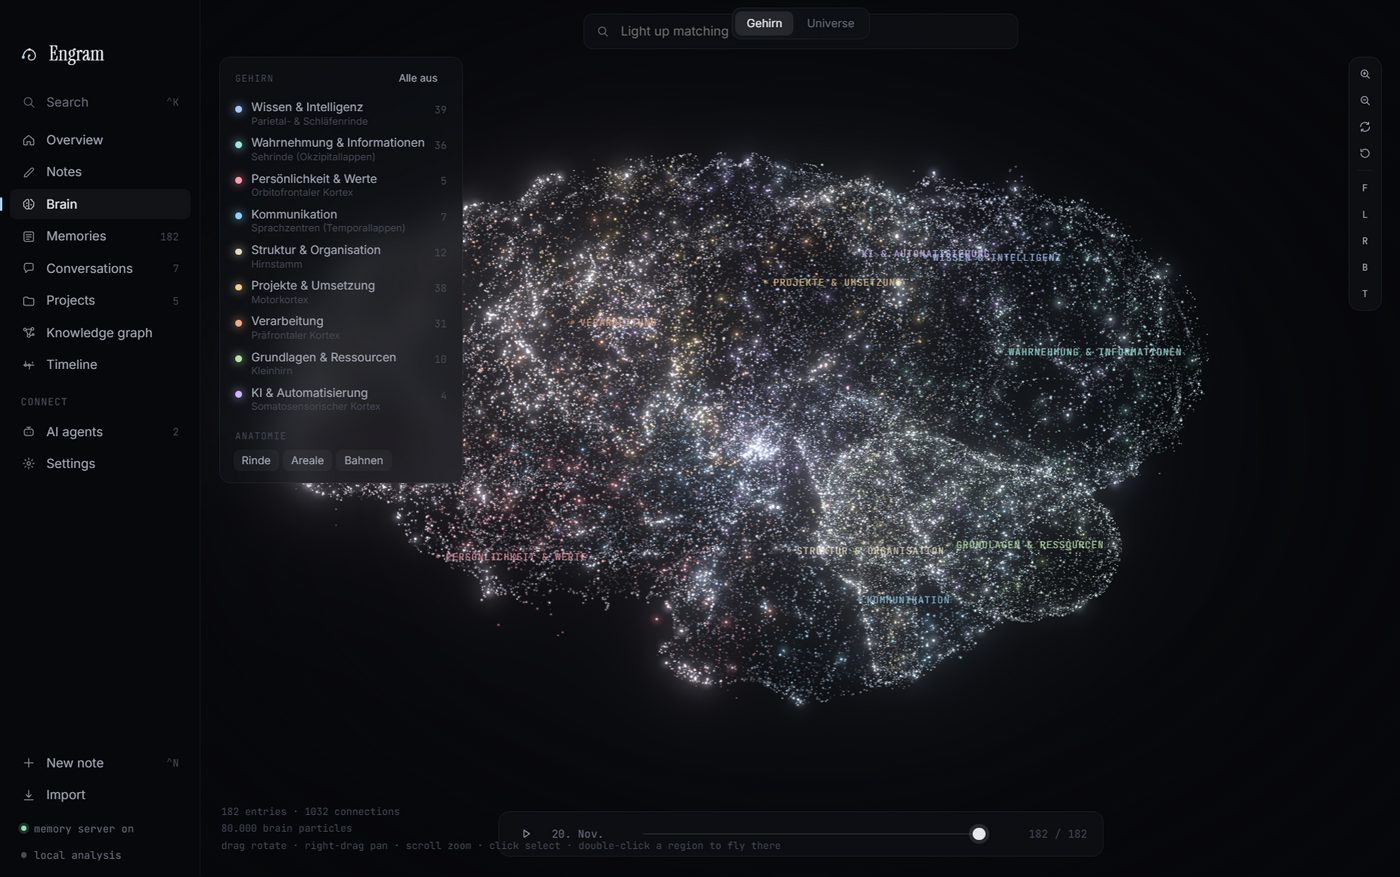
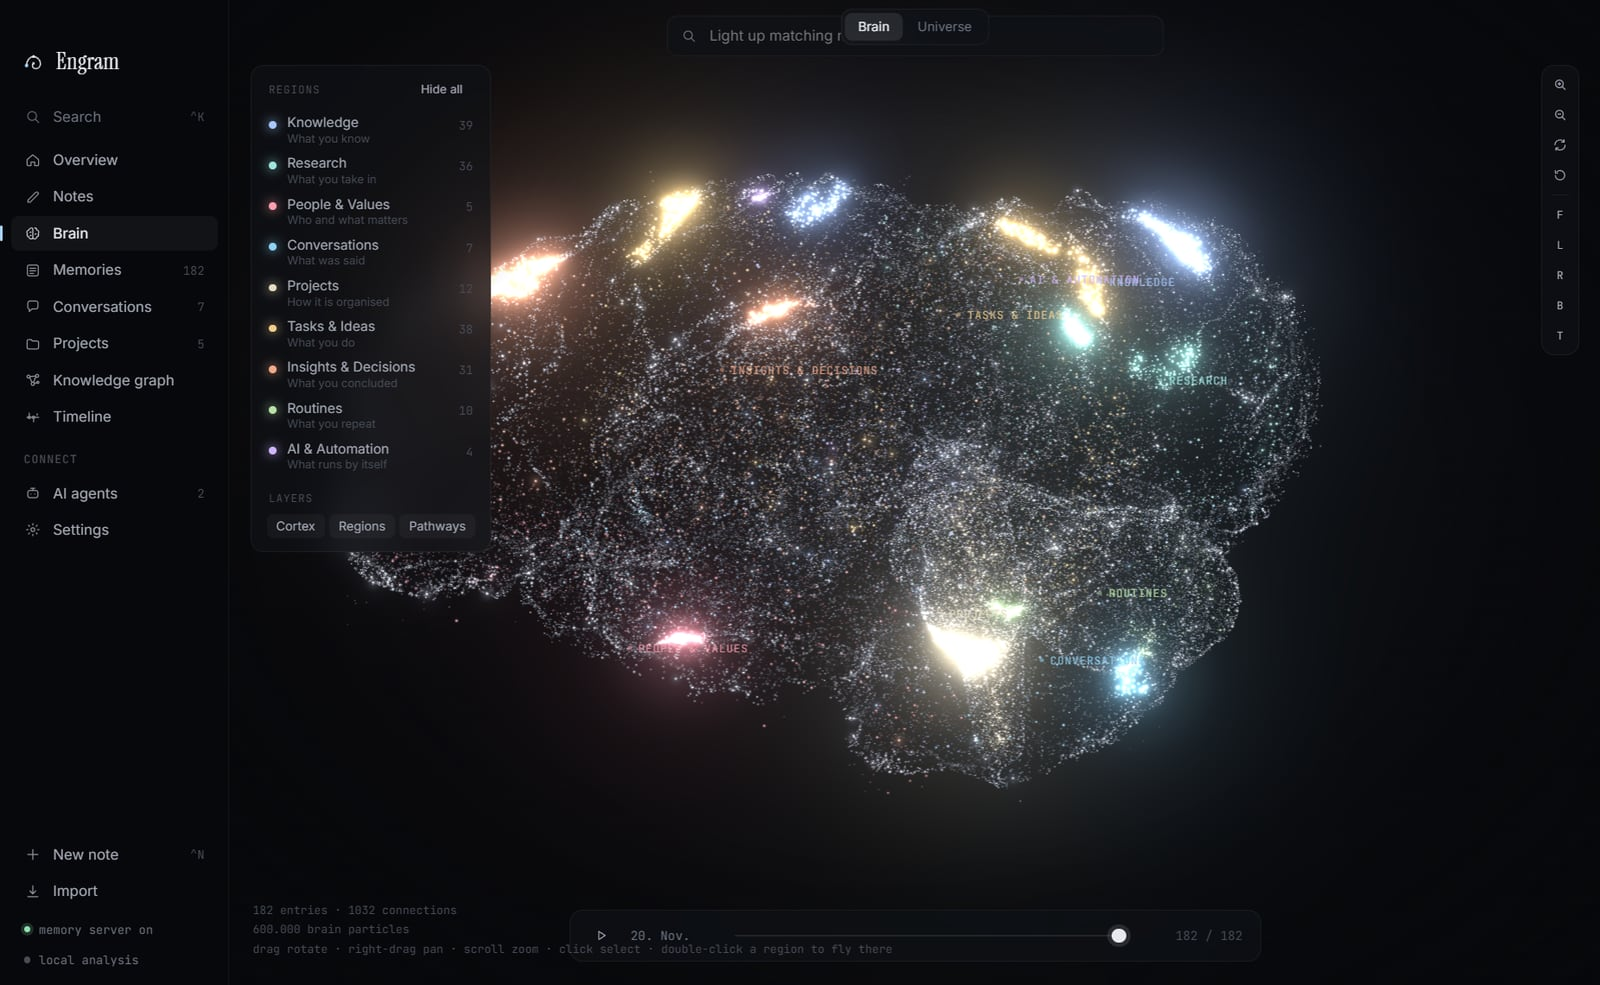
Update site for Engram 1.5.0; remove downloads
- New HD screenshots of the current app (demo data)
- Region names and world descriptions match 1.5.0
- Remove hero stats, version number and all download links
- Replace the download section with a development status note

diff --git a/index.html b/index.html
@@ -13,7 +13,7 @@
 <link rel="icon" href="assets/icon.png">
 <link rel="preload" href="assets/fonts/instrument-serif.woff2" as="font" type="font/woff2" crossorigin>
 <link rel="preload" href="assets/fonts/inter.woff2" as="font" type="font/woff2" crossorigin>
-<link rel="stylesheet" href="assets/style.css?v=3">
+<link rel="stylesheet" href="assets/style.css?v=4">
 </head>
 <body>
 
@@ -26,7 +26,7 @@
     <a href="#agents">Agents</a>
     <a href="#privacy">Privacy</a>
   </nav>
-  <a class="btn btn-ghost btn-s" href="#download">Download</a>
+  <a class="btn btn-ghost btn-s" href="#status">Status</a>
 </header>
 
 <main id="top">
@@ -37,21 +37,14 @@
   <div class="hero-vignette" aria-hidden="true"></div>
 
   <div class="hero-copy">
-    <p class="meta"><span class="pulse"></span>Version 1.4.1 · Windows · MIT</p>
+    <p class="meta"><span class="pulse"></span>In development · Windows</p>
     <h1>Your second brain,<br><em>made visible.</em></h1>
     <p class="lead">Engram keeps your notes, projects and AI conversations in a local database and draws them as a 3D brain. Every glowing point is a real entry you can open.</p>
     <div class="cta">
-      <a class="btn btn-primary" href="#download">Download for Windows</a>
-      <a class="btn btn-ghost" href="#worlds">See how it works</a>
+      <a class="btn btn-primary" href="#worlds">See how it works</a>
     </div>
   </div>
 
-  <dl class="hero-stats">
-    <div><dt>Particles, up to</dt><dd>140,000</dd></div>
-    <div><dt>Brain regions</dt><dd>9</dd></div>
-    <div><dt>MCP tools</dt><dd>25</dd></div>
-    <div><dt>Servers</dt><dd>0</dd></div>
-  </dl>
 </section>
 
 <!-- ============ SOURCES ============ -->
@@ -76,14 +69,14 @@
 
   <article class="world" data-reveal>
     <figure class="shot">
-      <img src="assets/shots/brain.jpg" alt="Engram's brain view: an anatomical particle brain with glowing regions" loading="lazy" width="1400" height="877">
+      <img src="assets/shots/brain.jpg" alt="Engram's brain view: an anatomical particle brain whose regions glow where entries live" loading="lazy" width="1600" height="985">
     </figure>
     <div class="world-copy">
       <p class="meta">The brain</p>
       <h3>An anatomical brain, built from your entries.</h3>
-      <p>Up to 140,000 particles sit on a signed-distance-field brain: two hemispheres, the Sylvian and central sulci, folded gyri, a cerebellum with fine folia, the brainstem and spinal cord. No lines, only light and shadow.</p>
+      <p>A particle brain with two hemispheres, folded gyri, a cerebellum, the brainstem and spinal cord. Empty cortex stays dim and grey. Each entry lights up a patch in its region's colour, and the patch grows with the entry: a project with its entries, a conversation with its messages.</p>
       <ul class="list">
-        <li>Each entry is placed in one of 9 regions automatically</li>
+        <li>Dense areas glow brightest, empty regions stay dark</li>
         <li>Click a point to open the entry</li>
         <li>Double-click a region to fly to it</li>
       </ul>
@@ -92,17 +85,17 @@
 
   <article class="world flip" data-reveal>
     <figure class="shot">
-      <img src="assets/shots/universe.jpg" alt="Engram's universe view with a black hole at the centre and nine galaxies" loading="lazy" width="1400" height="877">
+      <img src="assets/shots/universe.jpg" alt="Engram's universe view: a star field orbiting a black hole, one sector per region" loading="lazy" width="1600" height="985">
     </figure>
     <div class="world-copy">
       <p class="meta">The universe</p>
       <h3>A black hole at the centre of everything you know.</h3>
       <p>A Schwarzschild black hole is raymarched in real time. Light bends along null geodesics, producing the shadow, the photon ring and the lensed far side of the accretion disk.</p>
       <dl class="map">
-        <div><dt>Galaxies</dt><dd>9 knowledge areas</dd></div>
-        <div><dt>Solar systems</dt><dd>Projects</dd></div>
-        <div><dt>Planets</dt><dd>Topic clusters</dd></div>
         <div><dt>Stars</dt><dd>Single entries</dd></div>
+        <div><dt>Bright stars</dt><dd>Projects</dd></div>
+        <div><dt>Star clusters</dt><dd>A project's entries</dd></div>
+        <div><dt>Disk sectors</dt><dd>The 9 regions</dd></div>
       </dl>
       <p class="quiet">Imports arrive as comets. Analyses pulse out of the black hole. New links travel as sparks. Every event shown is a real one.</p>
     </div>
@@ -119,14 +112,14 @@
 
   <ol class="regions" data-reveal-group>
     <li style="--c:#9fc6ff"><span class="n">01</span><h4>Knowledge</h4><p>Parietal &amp; temporal cortex</p><small>Memories, notes, documents</small></li>
-    <li style="--c:#a7e3c4"><span class="n">02</span><h4>Perception</h4><p>Visual cortex</p><small>Research, sources, highlights</small></li>
-    <li style="--c:#f2b3cf"><span class="n">03</span><h4>Personality</h4><p>Orbitofrontal cortex</p><small>People, values, goals</small></li>
-    <li style="--c:#8fd8e8"><span class="n">04</span><h4>Communication</h4><p>Language centres</p><small>ChatGPT, Claude, Gemini, mail</small></li>
-    <li style="--c:#e9c48a"><span class="n">05</span><h4>Structure</h4><p>Brainstem</p><small>Projects, templates, overviews</small></li>
-    <li style="--c:#d7b4f0"><span class="n">06</span><h4>Action</h4><p>Motor cortex</p><small>Tasks, ideas, coding sessions</small></li>
-    <li style="--c:#f0a08c"><span class="n">07</span><h4>Reasoning</h4><p>Prefrontal cortex</p><small>AI analyses, decisions</small></li>
-    <li style="--c:#9eb0ff"><span class="n">08</span><h4>Foundations</h4><p>Cerebellum</p><small>Daily notes, routines, habits</small></li>
-    <li style="--c:#f3dd9a"><span class="n">09</span><h4>Automation</h4><p>Somatosensory cortex</p><small>Memories saved by agents</small></li>
+    <li style="--c:#a7e3c4"><span class="n">02</span><h4>Research</h4><p>Visual cortex</p><small>Sources, web pages, highlights</small></li>
+    <li style="--c:#f2b3cf"><span class="n">03</span><h4>People &amp; Values</h4><p>Orbitofrontal cortex</p><small>People, preferences, goals</small></li>
+    <li style="--c:#8fd8e8"><span class="n">04</span><h4>Conversations</h4><p>Language areas</p><small>ChatGPT, Claude, Gemini, mail</small></li>
+    <li style="--c:#e9c48a"><span class="n">05</span><h4>Projects</h4><p>Brainstem</p><small>Projects, templates, overviews</small></li>
+    <li style="--c:#d7b4f0"><span class="n">06</span><h4>Tasks &amp; Ideas</h4><p>Motor cortex</p><small>Tasks, ideas, coding sessions</small></li>
+    <li style="--c:#f0a08c"><span class="n">07</span><h4>Insights &amp; Decisions</h4><p>Prefrontal cortex</p><small>AI analyses, decisions</small></li>
+    <li style="--c:#9eb0ff"><span class="n">08</span><h4>Routines</h4><p>Cerebellum</p><small>Daily notes, routines, habits</small></li>
+    <li style="--c:#f3dd9a"><span class="n">09</span><h4>AI &amp; Automation</h4><p>Sensorimotor cortex</p><small>Memories saved by agents</small></li>
   </ol>
 </section>
 
@@ -144,7 +137,7 @@
         <h3>Your whole record on one screen.</h3>
         <p>A live world, recent entries, active projects and a command bar on <kbd>Ctrl</kbd> <kbd>K</kbd> for search and questions.</p>
       </div>
-      <img src="assets/shots/dashboard.jpg" alt="Engram overview dashboard" loading="lazy" width="1400" height="877">
+      <img src="assets/shots/overview.jpg" alt="Engram overview with the brain as background" loading="lazy" width="1600" height="985">
     </article>
 
     <article class="card">
@@ -153,7 +146,7 @@
         <h3>A full Markdown vault.</h3>
         <p>Live preview, <code>[[wikilinks]]</code>, backlinks, tabs, split view, templates and daily notes. An optional mirror folder keeps every note as a plain <code>.md</code> file.</p>
       </div>
-      <img src="assets/shots/notes.jpg" alt="Engram notes editor" loading="lazy" width="1400" height="877">
+      <img src="assets/shots/notes.jpg" alt="Engram notes editor with live preview" loading="lazy" width="1600" height="985">
     </article>
 
     <article class="card">
@@ -162,7 +155,7 @@
         <h3>Everything comes in verbatim.</h3>
         <p>ChatGPT, Claude, Gemini, Claude Code, Codex, Obsidian, Notion, Evernote and more. Importing the same file twice creates no duplicates.</p>
       </div>
-      <img src="assets/shots/conversations.jpg" alt="Engram conversations list" loading="lazy" width="1400" height="877">
+      <img src="assets/shots/conversations.jpg" alt="Engram conversations list" loading="lazy" width="1600" height="985">
     </article>
 
     <article class="card">
@@ -171,7 +164,7 @@
         <h3>Ask in plain language.</h3>
         <p>Full-text and vector search combined. Filters such as “decisions from October” or “ChatGPT, last 3 months” are read from your question. Answers cite the entries they came from.</p>
       </div>
-      <img src="assets/shots/search.jpg" alt="Engram search results in the command bar" loading="lazy" width="1400" height="877">
+      <img src="assets/shots/search.jpg" alt="Engram command bar with search results" loading="lazy" width="1600" height="985">
     </article>
 
     <article class="card">
@@ -180,7 +173,7 @@
         <h3>Watch ideas grow.</h3>
         <p>A knowledge graph of real links, a timeline with topic waves, and a version history for every change.</p>
       </div>
-      <img src="assets/shots/timeline.jpg" alt="Engram timeline view" loading="lazy" width="1400" height="877">
+      <img src="assets/shots/graph.jpg" alt="Engram knowledge graph" loading="lazy" width="1600" height="985">
     </article>
   </div>
 
@@ -213,7 +206,7 @@
   </div>
 
   <figure class="shot wide" data-reveal>
-    <img src="assets/shots/agents.jpg" alt="Engram's AI agents page with one-click install for each client" loading="lazy" width="1400" height="877">
+    <img src="assets/shots/agents.jpg" alt="Engram's AI agents page with one-click install for each client" loading="lazy" width="1600" height="985">
   </figure>
 </section>
 
@@ -230,22 +223,15 @@
   </div>
 </section>
 
-<!-- ============ DOWNLOAD ============ -->
-<section id="download" class="section download">
+<!-- ============ STATUS ============ -->
+<section id="status" class="section download">
   <div class="dl-glow" aria-hidden="true"></div>
   <div data-reveal>
-    <p class="meta">06 — Get started</p>
-    <h2>Start with what you <em>already have.</em></h2>
-    <p class="lead">Install per user, no admin rights needed. Your data stays in <code>%APPDATA%\Engram</code>, even if you uninstall.</p>
+    <p class="meta">06 — Status</p>
+    <h2>Still <em>taking shape.</em></h2>
+    <p class="lead">Engram is in active development and there is no public download yet. Follow the repository to see when the first release ships.</p>
     <div class="cta center">
-      <a class="btn btn-primary" data-release="Engram-Setup-1.4.1.exe" href="#">Download installer</a>
-      <a class="btn btn-ghost" data-release="Engram-1.4.1-portable.exe" href="#">Portable version</a>
-    </div>
-    <p class="note">The build is not code-signed. If Windows SmartScreen appears, choose <b>More info → Run anyway</b>.</p>
-    <div class="build">
-      <span class="meta">Build from source</span>
-      <pre><code>npm install
-npm start</code></pre>
+      <a class="btn btn-primary" data-repo href="#">Follow on GitHub</a>
     </div>
   </div>
 </section>
@@ -254,11 +240,11 @@ npm start</code></pre>
 
 <footer class="foot">
   <a class="brand" href="#top"><img src="assets/icon.png" alt="" width="20" height="20"><span>Engram</span></a>
-  <p class="meta">Local-first · MIT · Electron, Three.js &amp; SQLite</p>
-  <a class="meta link" data-repo href="#">Source on GitHub ↗</a>
+  <p class="meta">Local-first · Electron, Three.js &amp; SQLite</p>
+  <a class="meta link" data-repo href="#">GitHub ↗</a>
 </footer>
 
 
-<script src="assets/main.js?v=3"></script>
+<script src="assets/main.js?v=4"></script>
 </body>
 </html>

diff --git a/assets/main.js b/assets/main.js
@@ -1,16 +1,9 @@
 /* Engram site — particle brain, terminal, reveals, lightbox */
 (() => {
-  const REPO = 'engram'; // repo name under the user's account; used for release links
   const reduce = matchMedia('(prefers-reduced-motion: reduce)').matches;
 
-  /* ---------- release + repo links (derived from the Pages URL) ---------- */
-  const host = location.hostname;
-  const owner = host.endsWith('.github.io') ? host.split('.')[0] : null;
-  const repoUrl = owner ? `https://github.com/${owner}/${REPO}` : '#';
-  document.querySelectorAll('[data-repo]').forEach(a => (a.href = repoUrl));
-  document.querySelectorAll('[data-release]').forEach(a => {
-    a.href = owner ? `${repoUrl}/releases/latest/download/${a.dataset.release}` : `${repoUrl}`;
-  });
+  /* ---------- repo links ---------- */
+  document.querySelectorAll('[data-repo]').forEach(a => (a.href = 'https://github.com/Klardon972/engram'));
 
   /* ---------- nav background on scroll ---------- */
   const nav = document.getElementById('nav');

diff --git a/README.md b/README.md
@@ -8,24 +8,19 @@ Engram keeps your notes, projects and AI conversations in a local database and d
 
 ![Engram brain view](assets/shots/brain.jpg)
 
-## Download
+## Status
 
-Get the latest Windows build from [Releases](https://github.com/Klardon972/engram/releases/latest):
-
-- `Engram-Setup-1.4.1.exe` — per-user installer, no admin rights needed
-- `Engram-1.4.1-portable.exe` — runs without installation
-
-The build is not code-signed. If Windows SmartScreen appears, choose **More info → Run anyway**.
+Engram is in active development. There is no public download yet.
 
 ## Highlights
 
-- **Two worlds:** an anatomical particle brain with 9 knowledge regions, and a universe with a real-time raymarched black hole
+- **Two worlds:** an anatomical particle brain where regions glow where your entries live, and a star field orbiting a real-time raymarched black hole
 - **Notes vault:** live-preview Markdown, `[[wikilinks]]`, backlinks, tabs, templates, daily notes
 - **Import:** ChatGPT, Claude, Gemini, Claude Code, Codex, Obsidian, Notion, Evernote, WhatsApp, Kindle and more
 - **Search & ask:** hybrid full-text and vector search with cited answers
-- **Agent memory:** 25 MCP tools over stdio and Streamable HTTP, one-click setup
+- **Agent memory:** MCP tools over stdio and Streamable HTTP, one-click setup
 - **Private:** no account, no server, no telemetry; end-to-end encrypted sync
 
 ---
 
-This repository hosts the Engram website (GitHub Pages) and the release downloads.
+This repository hosts the Engram website (GitHub Pages).
